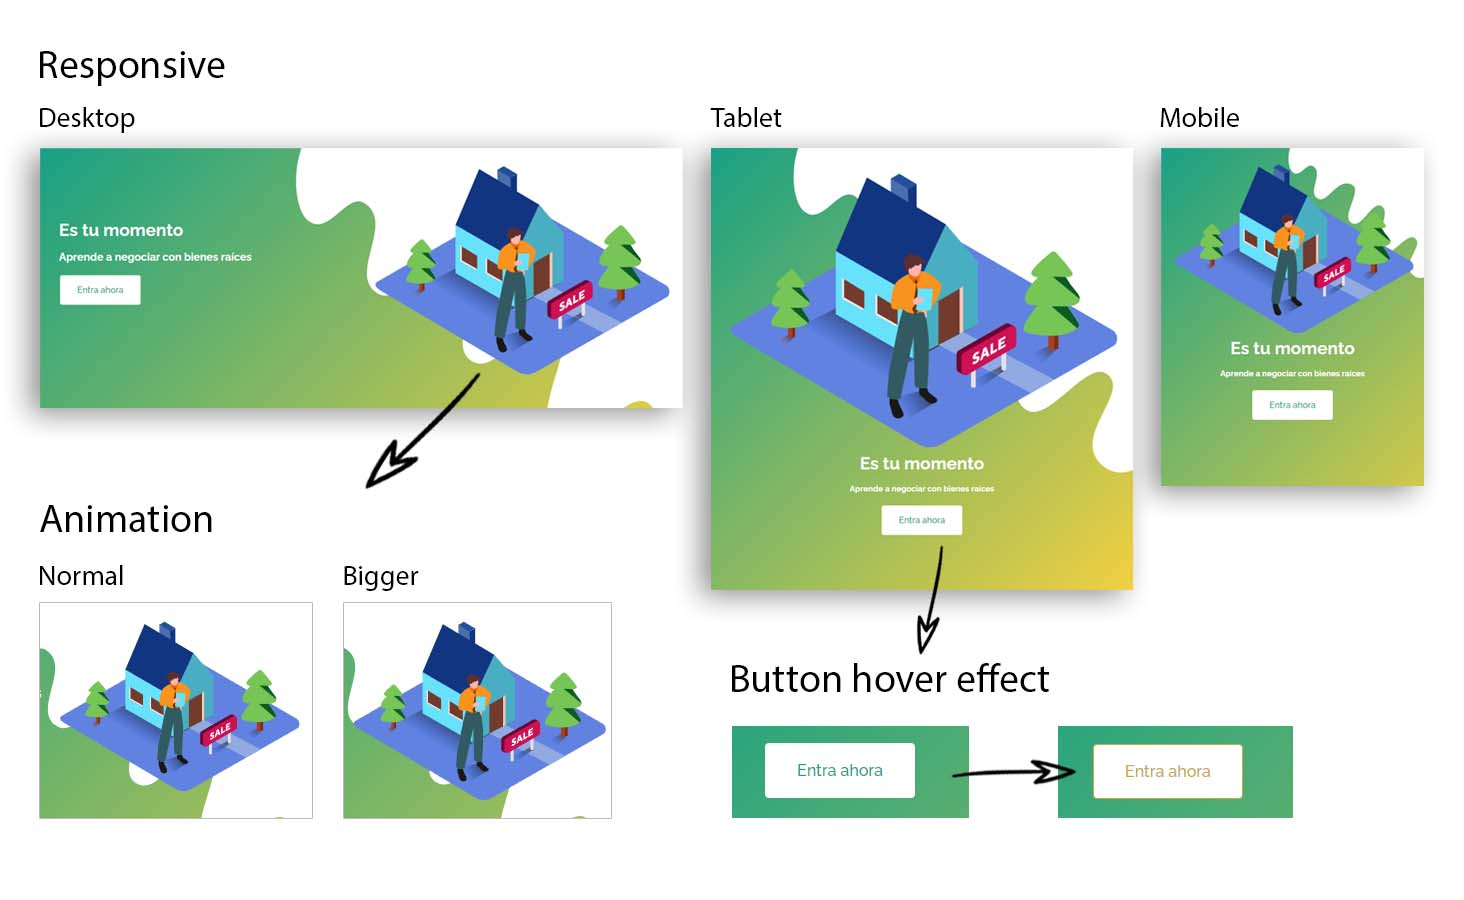
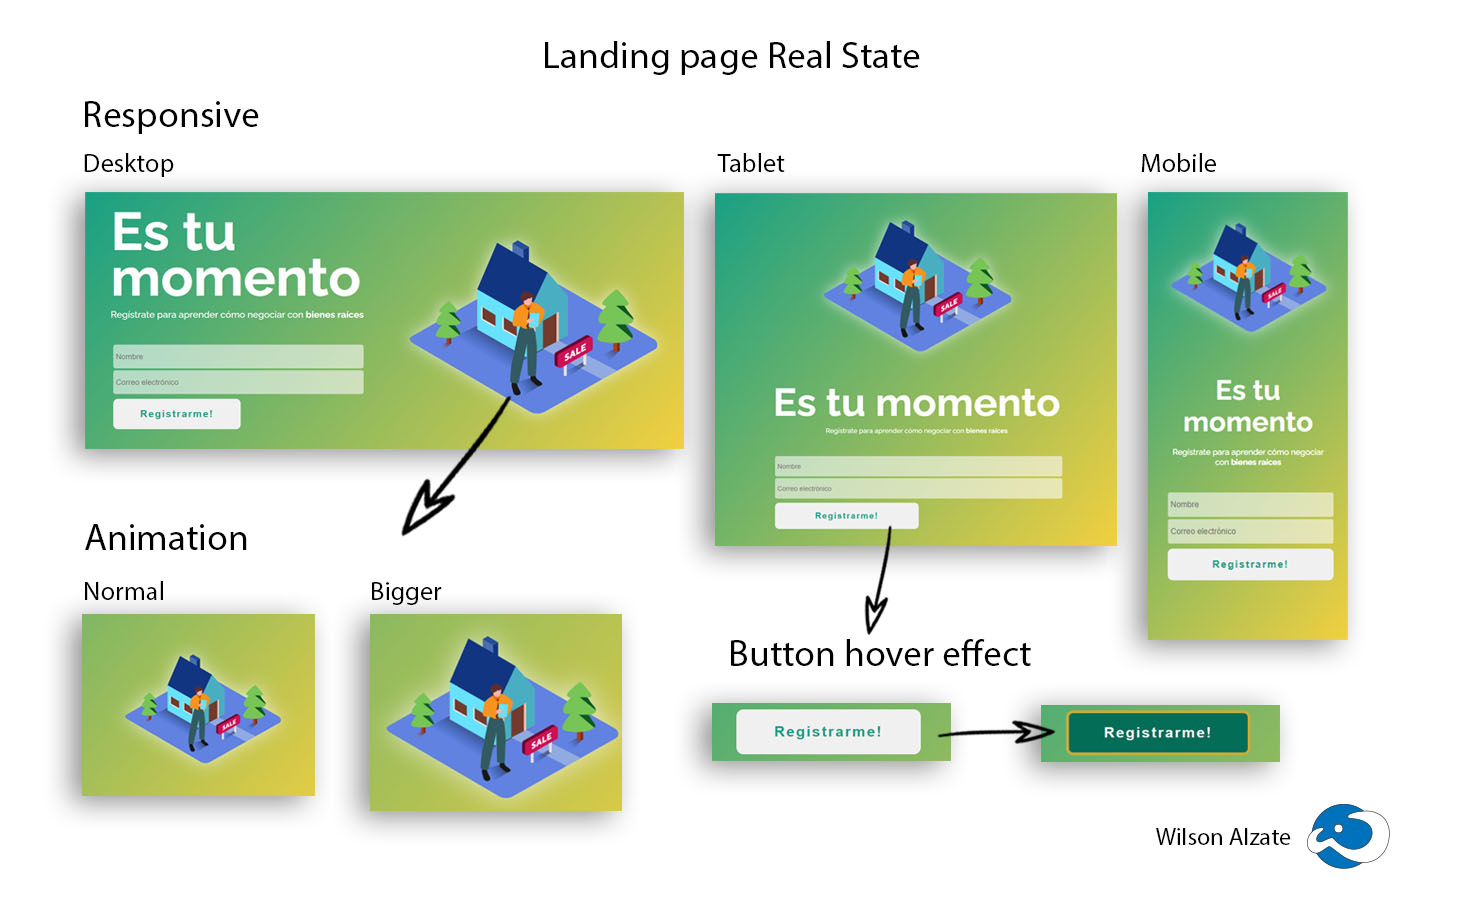
[FEAT] Agregar formulario y validación, Eventos DOM, CSS Responsive

diff --git a/styles.css b/styles.css
@@ -6,14 +6,14 @@
 
 body {
     font-family: 'Raleway', sans-serif;
-    min-height: 100vh;
     background: linear-gradient(130deg, #16A085 0%, #F4D03F 100%);
+    min-height: 100vh;
 }
 
 .container {
-    position: relative;
     /* height: 600px; */
     display: flex;
+    justify-content: center;
     align-items: center;
 }
 
@@ -22,22 +22,24 @@ body {
 
 .container-text {
     flex-basis: 50%;
-    padding-left: 40px;
-    overflow: hidden;
+    padding: 40px;
+    padding-left: 60px;
+    /* overflow: hidden; */
+    overflow: visible;
     color: white;
+
 }
 
 .title {
-    font-size: 120px;
+    font-size: 7rem;
     font-weight: 900;
     line-height: 6rem;
 }
 
 
 .subtitle {
-    font-size: 25px;
-    margin: 20px 0;
-    margin-bottom: 50px;
+    font-size: 1.2rem;
+    margin: 20px 0 50px;
     font-weight: 500;
     
 }
@@ -45,6 +47,8 @@ body {
 form{
     display: flex;
     align-items: center;
+    align-content: flex-start;
+    flex-wrap: wrap;
 }
 
 input{
@@ -53,30 +57,38 @@ input{
     padding: 17px 5px;
     border-radius: 5px;
     font-size: 1rem;
-    width: 50%;
+    flex-grow: 1;
     border: 1px transparent solid;
+    background-color: rgba(250, 250, 250, 0.6);
+    width: 60%;
 }
 
+input:-webkit-autofill,
+input:-webkit-autofill:hover,
+input:-webkit-autofill:focus,
+input:-webkit-autofill:active {
+    transition: background-color 5000s ease-in-out 0s;
+}
 
 .cta {
-    display: inline-block;
-    width: 160px;
-    padding: 17px 10px;
-    margin: 2px 10px;
+    width: 50%;
+    padding: 1rem;
+    margin: 8px 5px;
     text-align: center;
     background: #f0f0f0;
-    border-radius: 4px;
+    border-radius: 10px;
     text-decoration: none;
     color: #16a085;
     font-size: 1.3rem;
-    font-weight: 500;
-    border: 3px solid transparent;
+    font-weight: 700;
+    letter-spacing: 0.1em;
+    border: 4px solid transparent;
 }
 
 .cta:hover{
     background-color: hsl(168, 95%, 22%);
-    color: #ffffff;
-    border: 3px solid #c7ab3b;
+    color: #f0f0f0;
+    border: 4px solid #c7ab3b;
 }
 
 /* image */
@@ -87,88 +99,82 @@ input{
     z-index: 1;
     text-align: center;
     overflow: hidden;
+    padding: 40px;
+    padding-right: 60px;
 }
 
 .img {
     width: 100%;
     -webkit-filter: drop-shadow( 0px 0px 15px rgba(250, 250, 250, 0.7));
-    /* animation: illustrationAnimate ease-in 1s infinite alternate; */
+    filter: drop-shadow( 0px 0px 15px rgba(250, 250, 250, 0.7));
+    animation: illustrationAnimate ease-out 1s infinite alternate;
 }
 
-
-.wave {
-    position: absolute;
-    top: 0;
-    right: 0;
-    width: 60%;
-    z-index: 0;
-    overflow: hidden;
-}
-
+/*  animation  */
 @keyframes illustrationAnimate {
     0% {
-        transform: scale(1.1);
+        transform: scale(1.05);
     }100%{
-        transform: scale(1.1);
+        transform: scale(1.05);
     }
 }
 
 
-@media screen and (max-width: 800px) {
+/* responsive tablet  */
+@media screen and (max-width: 1000px) {
     .container {
         flex-direction: column-reverse;
     }
 
-    .wave{
-        width: 80%;
-    }
-
     .container-text{
         display: flex;
-        padding-left: 0;
+        padding: 40px;
         justify-content: center;
         align-items: center;
-        flex-basis: 40%;
+        flex-basis: 70%;
         flex-direction: column;
+        align-items: center;
+    }
+
+    .title{
+        font-size: 6rem;
+        line-height: 5rem;
+        text-align: center;
+    }
+    
+    .subtitle{
+        font-size: 1rem;
         text-align: center;
     }
 
-    .title{
-        font-size: 40px;
+    form{
+        flex-direction: column;
+        align-items: stretch;
+        width: 100%;
     }
-
-    .subtitle{
-        font-size: 15px;
+    
+    input{
+        width: 100%;
     }
 
     .container-image{
-        flex-basis: 60%;
-        width: 100%;
+        flex-basis: 30%;
         display: flex;
         align-items: center;
         justify-content: center;
-    }
-
-    .img{
-        height: 90%;
+        padding: 40px;
     }
 }
 
+/* responsive smartphone */
 @media screen and (max-width: 500px){
-    .wave{
-        width: auto;
-        height: 48%;
+    .title {
+        font-size: 3.5rem;
+        line-height: 4rem;
+        max-width: 100%;
     }
 
-    .container-text{
-        flex-basis: 40%;
-        justify-content: flex-start;
+    .cta {
+        width: 100%;
     }
-    
-    .title{
-        font-size: 35px;
-    }
-
-
-
 }

diff --git a/index.html b/index.html
@@ -1,5 +1,5 @@
 <!DOCTYPE html>
-<html lang="en">
+<html lang="es">
 <head>
     <meta charset="UTF-8">
     <meta name="viewport" content="width=device-width, initial-scale=1.0">
@@ -13,40 +13,43 @@
     <main class="container">
         <div class="container-text">
             <h1 class="title">Es tu momento</h1>
-            <h3 class="subtitle">Aprende cómo negociar con bienes raíces</h3>
+            <h3 class="subtitle">Regístrate para aprender cómo negociar con <strong>bienes&nbsp;raíces</strong></h3>
             <form id="form">
                 <!-- action="submit" -->
                 <input 
-                    id="inpName"
+                    id="iName"
                     type="text" 
                     placeholder="Nombre" 
                     name="name" 
                     minlength="2" 
                     maxlength="20"
                     autocomplete="on"
-                     >
+                    required
+                    title="Por favor, rellena este campo." 
+                    oninvalid="this.setCustomValidity('Ingresa tu nombre para continuar')" 
+                    oninput="this.setCustomValidity('')"
+                    >
                 <input 
-                    id="inpEmail"
+                    id="iEmail"
                     type="email" 
                     placeholder="Correo electrónico" 
                     name="email" 
                     minlength="2" 
                     maxlength="50"
                     autocomplete="on"
-                     >
+                    required 
+                    title="Por favor, rellena este campo." 
+                    oninvalid="this.setCustomValidity('Ingresa tu correo electrónico para continuar')" 
+                    oninput="this.setCustomValidity('')"
+                    >
                 <button type="submit" class="cta" id="btn">Registrarme!</button>
             </form>
         </div>
         <div class="container-image">
             <img class="img" src="img/img-real-estate.svg" alt="real-estate">
         </div>
-        <!--
-            <img class="wave" src="img/wave.svg" alt="">
-        -->
     </main>
 
-
-        <!--    Ver video min 15:00      -->
     <script src="script.js"></script>
 </body>
 </html>

diff --git a/script.js b/script.js
@@ -1,14 +1,13 @@
 const btn = document.getElementById("btn");
-const inpName = document.getElementById("inpName");
-const inpEmail = document.getElementById("inpEmail");
+const iName = document.getElementById("iName");
+const iEmail = document.getElementById("iEmail");
+const form = document.getElementById("form"); 
 
 
-btn.addEventListener("submit", (e) => {
-    e.preventDefault();
-    alert(`${inpName.value} ahora estás registrado!`)
-
-    // const name = inpName.value;
-    // const email = inpEmail.vaue;
-    // if (!name) return
-    
+form.addEventListener('submit', (event) => {
+    event.preventDefault();
+    alert(iName.value + " has sido registrado con éxito!")
+    // console.table({name: iName.value, email: iEmail.value})
+    iName.value = "";
+    iEmail.value = "";
 })

diff --git a/README.md b/README.md
@@ -1,5 +1,10 @@
 # Responsive landing page - Real estate
-Creacion de una landing page para un servicio de bienes raices (real estate). Desarrollada con Figma para diseñar y definir estilos, finalmente implementada con HTML y CSS de modo responsive para 3 dispositivos (desktop, tablet, mobile)
+Creacion de una landing page para un servicio de bienes raices (real estate). Diseñada con Figma e implementada con HTML, CSS y JavaScript.  Incluye:\
+Manejo del DOM\
+Validación de formularios\
+Responsive para 3 dispositivos (desktop, tablet, mobile)\
+Animación CSS\
+Inspiración [AlexCG Design](https://www.youtube.com/watch?v=cFV2F_XWZ_o&list=PLCSd_jI0_LcojYis3p50pamn-ZcWpofCU)
 
 ## Ver la presentación!
 [Figma -> Real estate landing page](https://www.figma.com/file/ANDLj4Qs8hGobsseviWl9f/Landing-page-Real-Estate?type=design&node-id=0%3A1&mode=dev)
